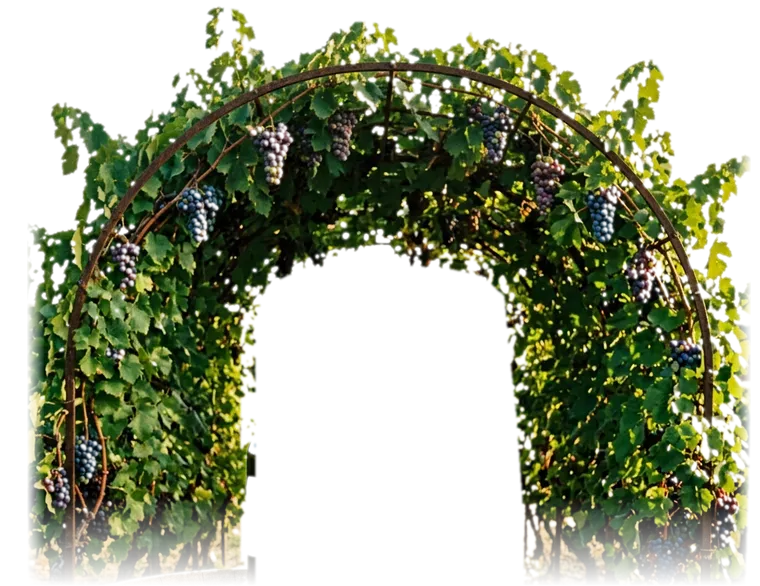
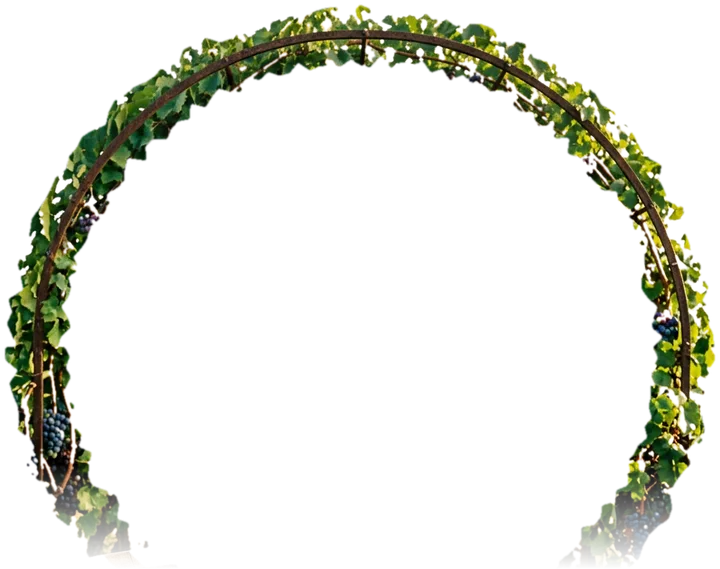
Bottle page: thin real-vine border (from the owner's picture) following the iron arch around the bottle
Claude-Session: https://claude.ai/code/session_012HPqv8bDyUp9nkdMJtseXb

diff --git a/index.html b/index.html
@@ -641,9 +641,9 @@ main{max-width:920px;margin:0 auto;padding:16px 16px 110px}
 /* the bottle page */
 .wvd .sheet-head{align-items:flex-start}.wvd .wvtop{min-width:0}
 .wvd .wvsub{color:var(--muted);margin:4px 0 0}
-.wvstage{position:relative;overflow:hidden;isolation:isolate;border:1px solid var(--line);border-radius:22px;padding:138px 10px 18px;margin:4px 0 12px;
+.wvstage{position:relative;overflow:hidden;isolation:isolate;border:1px solid var(--line);border-radius:22px;padding:96px 10px 18px;margin:4px 0 12px;
   background:radial-gradient(70% 55% at 50% 55%,rgba(255,250,240,.95) 0%,rgba(255,250,240,0) 70%),linear-gradient(180deg,var(--surface) 0%,var(--wine-soft) 100%)}
-.wvvine{position:absolute;top:-4px;left:50%;transform:translateX(-50%);width:112%;max-width:560px;height:auto;z-index:1;pointer-events:none}
+.wvvine{position:absolute;top:10px;left:50%;transform:translateX(-50%);width:96%;max-width:520px;height:auto;z-index:1;pointer-events:none}
 .wvvine .stem{fill:none;stroke:#6B4A2A;stroke-width:2.2;stroke-linecap:round}
 .wvvine .leaf{fill:#6F8A3C;stroke:#4E6627;stroke-width:.8}
 .wvvine .vein{fill:none;stroke:#C8D79A;stroke-width:.7;opacity:.8}
@@ -655,7 +655,7 @@ main{max-width:920px;margin:0 auto;padding:16px 16px 110px}
 @media (prefers-color-scheme:dark){:root:not([data-theme="light"]) .wvstage{background:radial-gradient(70% 55% at 50% 38%,rgba(255,220,200,.10) 0%,transparent 70%),linear-gradient(180deg,var(--surface) 0%,var(--wine-soft) 100%)}}
 :root[data-theme="dark"] .wvstage{background:radial-gradient(70% 55% at 50% 38%,rgba(255,220,200,.10) 0%,transparent 70%),linear-gradient(180deg,var(--surface) 0%,var(--wine-soft) 100%)}
 .wvd .wvhero img{border-radius:10px}
-.wvd .wvhero{margin:0 0 10px}.wvd .wvhero img{height:262px;background:transparent;filter:drop-shadow(0 12px 16px rgba(43,21,27,.22))}
+.wvd .wvhero{margin:0 0 10px}.wvd .wvhero img{height:280px;background:transparent;filter:drop-shadow(0 12px 16px rgba(43,21,27,.22))}
 .wvd .wvph{background:transparent}
 .wvtags{display:flex;flex-wrap:wrap;justify-content:center;gap:6px}
 .wvchip{display:inline-flex;align-items:center;gap:6px;font-size:13px;font-weight:600;padding:5px 11px;border-radius:999px;background:var(--surface);border:1px solid var(--line);color:var(--ink)}
